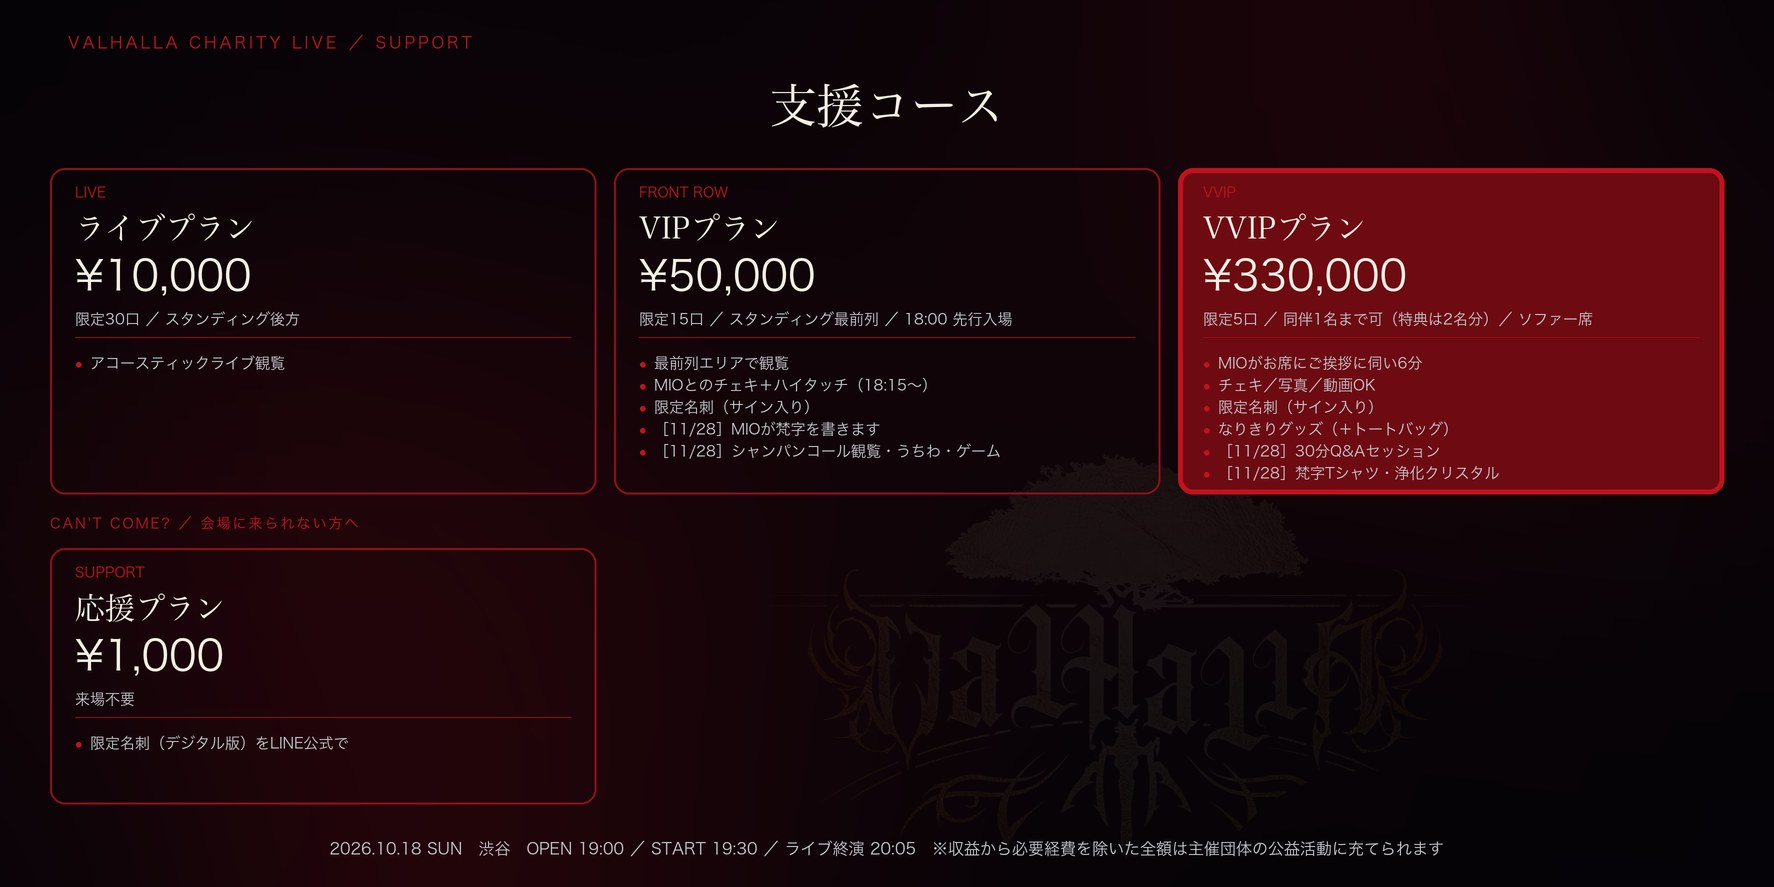
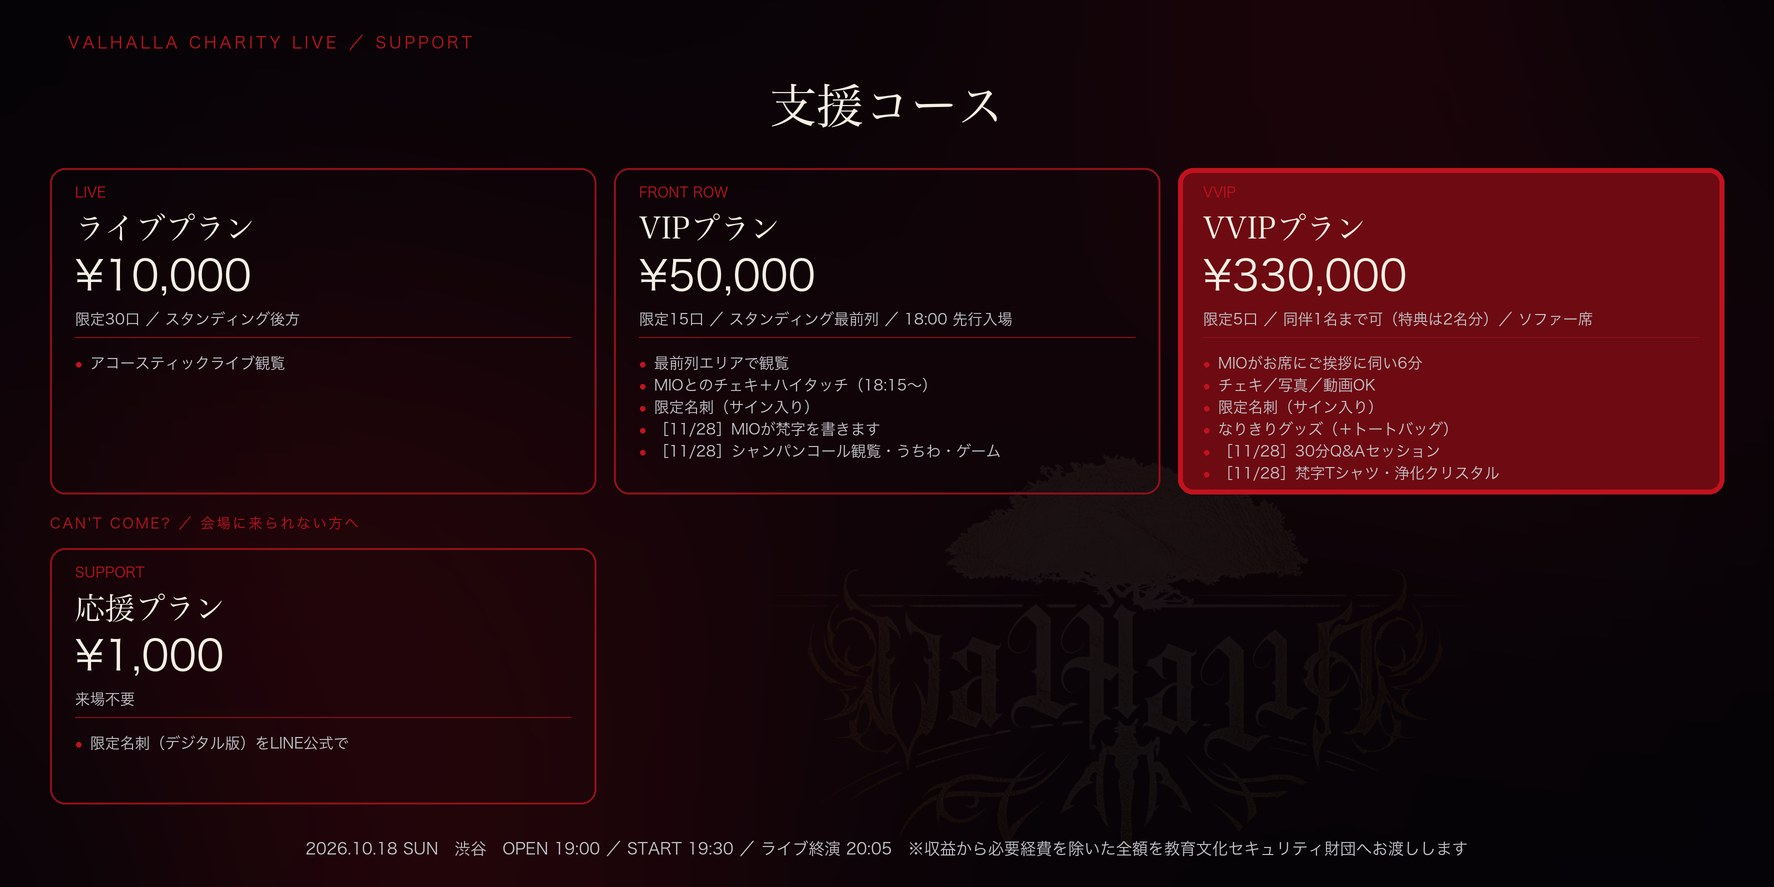
charity: put Yggdrasill on the poster and the foundation on the receiving end
The page said the foundation both ran the event and kept the money, which
left the charity with nowhere to go. Make Yggdrasill the organiser that
receives the support, settles costs against it, and hands the remainder to
the foundation — and bring back the three words that keep the direction of
the money readable (支援金 in, お渡しします across, 充てられます spent).

The daytime event's organiser was asserted from memory and was wrong twice
over. Its own page names the foundation as 主催 and 株式会社クロノス財団 only
as production and crowdfunding support, so say that instead of guessing.

Two builders still carried the old sentence hard-coded, which is how a fixed
body text can still print a stale claim; the flyer credit line was measured
against the page rather than trusted, because the last one silently fell off
the bottom of the A4.

社学園 replaces the kana spelling everywhere it appeared.

Changed region(s): [[0.186, 0.9436, 0.8371, 0.9741]]

diff --git a/charity.html b/charity.html
@@ -427,7 +427,7 @@
   <div class="sub-h">Our Story</div>
   <p class="lead-strong">支えてくれた人たちへ、恩返しがしたい。</p>
   <p class="body muted">華やかなステージの裏側で、僕たちはたくさんのお客様やスタッフに支えられてきました。今度はその恩を社会に還していきたくて、このアフターパーティーを企画しました。</p>
-  <p class="body muted">同じ日の昼、文化継承をテーマにしたチャリティーイベント「WRAPPING THE EARTH TOKYO 2026」が開かれます。その一日の夜を、VALHALLA が受け継ぎます。<b style="color:var(--ink)">本イベントの収益から必要経費を差し引いた全額を、公益財団法人 教育文化セキュリティ財団へお渡しします。</b></p>
+  <p class="body muted">同じ日の昼、公益財団法人 教育文化セキュリティ財団が主催する、文化継承をテーマにしたチャリティーイベント「WRAPPING THE EARTH TOKYO 2026」が開かれます。その一日の夜を、VALHALLA が受け継ぎます。<b style="color:var(--ink)">本イベントの収益から必要経費を差し引いた全額を、公益財団法人 教育文化セキュリティ財団へお渡しします。</b></p>
 </section>
 
 <!-- ===== ② POINTS ===== -->
@@ -534,7 +534,7 @@
     <div>
       <div class="dtag">＋ 昼の本編（同日開催）</div>
       <div class="dttl">WRAPPING THE EARTH TOKYO 2026</div>
-      <p>昼は文化継承をテーマにしたチャリティーイベント本編。その夜を、このアフターパーティーが受け継ぎます。</p>
+      <p>昼は公益財団法人 教育文化セキュリティ財団が主催する、文化継承をテーマにしたチャリティーイベント本編。その夜を、このアフターパーティーが受け継ぎます。</p>
     </div>
   </div>
 </section>
@@ -651,7 +651,7 @@
 </section>
 
 <div class="foot">
-  <div class="legal">【特定商取引法に基づく表記（公開前に必ず記載）】 主催者名／所在地／連絡先／販売価格／支払時期・方法／キャンセル規定／お渡し先・お渡しする割合 等。</div>
+  <div class="legal"><b>主催・運営：Group Yggdrasill（グループユグドラシル）</b>　／　企画・出演：VALHALLA（MIO / RAY / KØU）　／　お渡し先：公益財団法人 教育文化セキュリティ財団<br>【特定商取引法に基づく表記（公開前に必ず記載）】 主催者名／所在地／連絡先／販売価格／支払時期・方法／キャンセル規定／お渡し先・お渡しする割合 等。</div>
   <div class="credits">
     画像クレジット：安田講堂 © Kakidai (CC BY-SA 4.0) — via Wikimedia Commons.<br>
     会場写真：主催者撮影。

diff --git a/assets/charity/create_flyer_wide.py b/assets/charity/create_flyer_wide.py
@@ -572,7 +572,7 @@ def add_band(base: Image.Image) -> None:
     d.text((x, band + 90), place_t, font=place_f, fill=CREAM + (255,))
 
     # ③ 支援の一行。ここだけ和文で、静かに置く
-    note = "収益から必要経費を差し引いた全額は、教育文化セキュリティ財団の公益活動に充てられます"
+    note = "収益から必要経費を差し引いた全額を、教育文化セキュリティ財団へお渡しします"
     nf = face(MINCHO, 27)
     d.text(((W - d.textlength(note, font=nf)) / 2, band + 178), note, font=nf,
            fill=(236, 214, 214, 235))
@@ -637,3 +637,13 @@ if __name__ == "__main__":
         main(with_names=False)
     else:
         main(with_names="--no-names" not in sys.argv)
+
+# 作ったら、その場で本文へ流し込む。分けると古い絵が残る。
+if __name__ == "__main__" and "--3x2" not in sys.argv and "--no-names" in sys.argv:
+    _SRC = Path(__file__).resolve().parent / "flyer_wide_noname.jpg"
+    _BODY = Path.home() / "Desktop" / "VALHALLA_本文にはめる画像" / "IMAGE-01.jpg"
+    if _BODY.parent.is_dir() and _SRC.exists():
+        from PIL import Image as _I
+        _I.open(_SRC).convert("RGB").resize((1500, 844), _I.Resampling.LANCZOS).save(
+            _BODY, "JPEG", quality=90, optimize=True, progressive=True)
+        print(f"→ {_BODY.name} へ流し込み")

diff --git a/tools/build-flyer.py b/tools/build-flyer.py
@@ -61,10 +61,10 @@ DRAW = [
     (CENTER, 76.2, "全額を教育文化セキュリティ財団の公益活動に充てます", 11.05, WHITE, 0.05),
     (CENTER, 58.2, "※必要経費には、会場費・機材費・決済手数料が含まれます（出演料は無償）。",
      6.6, NOTE, 0.0),
-    (CENTER, 47.0, "充てた金額は開催後にご報告します。", 6.6, NOTE, 0.0),
+    (CENTER, 47.0, "お渡しした金額は開催後にご報告します。", 6.6, NOTE, 0.0),
 ]
-FOOTER = ("主催：VALHALLA ／ 同じ日の昼に開かれる「WRAPPING THE EARTH TOKYO 2026」"
-          "主催：公益財団法人 教育文化セキュリティ財団。お申し込みは CAMPFIRE にて。"
+FOOTER = ("主催・運営：Group Yggdrasill ／ 企画・出演：VALHALLA ／ お渡し先：公益財団法人 教育文化セキュリティ財団。"
+          "同じ日の昼に開かれる「WRAPPING THE EARTH TOKYO 2026」は同財団の主催です。お申し込みは CAMPFIRE にて。"
           "特定商取引法に基づく表記は特設ページに掲載します。")
 FOOTER_X, FOOTER_Y, FOOTER_SIZE, FOOTER_MAX = 39.7, 11.7, 5.38, 515.0
 

diff --git a/tools/build-page-preview.py b/tools/build-page-preview.py
@@ -140,7 +140,7 @@ def build() -> None:
            f'<main>\n'
            f'<p class="lead">文化 × エンタメ × AI。2026年10月18日（日）渋谷で '
            f'VALHALLA CHARITY LIVE を開催します。出演は MIO / RAY / KØU。'
-           f'来場は限定50口。収益から必要経費を差し引いた全額は、主催である公益財団法人 教育文化セキュリティ財団の公益活動に充てられます。</p>\n'
+           f'来場は限定50口。主催・運営は Group Yggdrasill。収益から必要経費を差し引いた全額を、公益財団法人 教育文化セキュリティ財団へお渡しします。</p>\n'
            + "\n".join(body) + "\n</main>\n")
     OUT.parent.mkdir(parents=True, exist_ok=True)
     OUT.write_text(doc, encoding="utf-8")

diff --git a/assets/charity/create_returns_banner.py b/assets/charity/create_returns_banner.py
@@ -254,7 +254,7 @@ def add_footer(base: Image.Image) -> None:
     d = ImageDraw.Draw(base)
     text = (
         "2026.10.18 SUN　渋谷　OPEN 19:00 ／ START 19:30 ／ "
-        "ライブ終演 20:05　※収益から必要経費を除いた全額は主催団体の公益活動に充てられます"
+        "ライブ終演 20:05　※収益から必要経費を除いた全額を教育文化セキュリティ財団へお渡しします"
     )
     footer_font = face(SANS, 16)
     if d.textlength(text, font=footer_font) > (W - 100) * SCALE:

diff --git a/docs/campfire-project-body.md b/docs/campfire-project-body.md
@@ -1,5 +1,10 @@
 # CAMPFIRE プロジェクトページ 本文原稿【夜の部・VALHALLA CHARITY LIVE】
 
+> ⚠ **この文書は古い。** いま掲載する内容の正は `docs/campfire-live-page.txt`。
+> 2026-09-20 に主催の構造が変わった（主催・運営＝Group Yggdrasill ／ お渡し先＝公益財団法人 教育文化セキュリティ財団）。
+> 本文中のリターン・金額・席名もこの文書は更新されていない。参照しないこと。
+
+
 最終更新: 2026-09-07
 対象: VALHALLA CHARITY LIVE（2026年10月18日 夜・渋谷）
 一次情報: **公式フライヤー `assets/charity/flyer_fusion_fixed.pdf`（差し替え済みのこれが正）** ／ 昼の部プロジェクト `camp-fire.jp/projects/965944`
@@ -24,8 +29,8 @@
 - **日時**：2026.10.18 SUN ／ **OPEN 19:00 ／ START 19:30**（受付締切 19:25）
 - **会場**：**東京・渋谷**（会場の詳細は追ってお知らせします）※会場名は伏せる（→ §6.5）
 - **出演**：**MIO ／ RAY ／ KØU** ※**この並び順が公式**
-- **主催**：**VALHALLA**
-- **昼の本編**：「**WRAPPING THE EARTH TOKYO 2026**」／主催：**公益財団法人クロノス保全財団**
+- **主催**：**Group Yggdrasill（グループユグドラシル）**
+- **昼の本編**：「**WRAPPING THE EARTH TOKYO 2026**」／主催：**公益財団法人 教育文化セキュリティ財団**（企画・制作協力・CF運営：株式会社クロノス財団）
 - **寄付**：「収益から必要経費を差し引いた全額を然るべき団体へ寄付します」
   ／「※必要経費には、会場費・出演料・機材費・決済手数料が含まれます。」
   ／「寄付先の団体名、寄付金額は開催後にご報告します。」
@@ -420,9 +425,10 @@ AI が何でも答えてくれる時代に、
 - **会場**：渋谷〔会場名は後日発表します〕
 - **出演**：VALHALLA（MIO / RAY / KØU）
 - **内容**：アコースティックライブ ＆ スペシャルタイム
-- **主催**：VALHALLA
+- **主催・運営**：Group Yggdrasill（グループユグドラシル）
+- **企画・出演**：VALHALLA（MIO / RAY / KØU）
 - **クラウドファンディング**：CAMPFIRE
-- **寄付先**：然るべき団体〔団体名は開催後に本ページで報告します〕
+- **お渡し先**：公益財団法人 教育文化セキュリティ財団
 
 【画像】`assets/charity/16x9/venue_banner.jpg`（会場は近日公開予定）
 
@@ -639,7 +645,7 @@ VALHALLA　MIO / RAY / KØU
 
 **Q1. 昼の「WRAPPING THE EARTH TOKYO 2026」とはどう違いますか？**
 
-A. 同じ2026年10月18日に開催される別のイベントです。昼は文化継承をテーマにしたチャリティーイベント、夜は渋谷で開催する VALHALLA CHARITY LIVE（主催：VALHALLA）です。ご支援はそれぞれ別のプロジェクトから承っています。〔※通し券の有無を確定〕
+A. 同じ2026年10月18日に開催される、主催者の異なる別のイベントです。昼は公益財団法人 教育文化セキュリティ財団が主催する、文化継承をテーマにしたチャリティーイベント。夜は Group Yggdrasill が主催し、渋谷で開催する VALHALLA CHARITY LIVE（企画・出演：VALHALLA）です。ご支援はそれぞれ別のプロジェクトから承っています。〔※通し券の有無を確定〕
 
 **Q2. 当日会場へ行けなくても応援できますか？**
 

diff --git a/docs/returns-v3.md b/docs/returns-v3.md
@@ -65,7 +65,7 @@
 - ゲーム参加（賞品＝社美緒の私物）
 
 **＜継続＞**
-- **やしろ学園への優待**
+- **社学園への優待**
 
 ---
 
@@ -78,7 +78,7 @@
 | ライブ | 60口 → **30名** |
 | 動員 | 100口／110名 → **50口／55名**（達成後に追加） |
 | VVIP席 | 「金色の4区画」→ **ソファー席・先着順** |
-| 追加 | **やしろ学園への優待** |
+| 追加 | **社学園への優待** |
 | 追加 | **梵字オリジナルTシャツ**（＝前回の「梵字Tシャツ」を正式名に） |
 | ファンミ会場 | ユグドラシル本店 → **都内**（場所をぼかす表記に） |
 
@@ -90,7 +90,7 @@
    何を渡すコースでしょうか（紹介／優待／権利？）
 2. **滝で浄化したクリスタル** は、今回のリストに入っていませんでした。
    VVIP から外しますか、残しますか
-3. **やしろ学園** の正式名称と、優待の中身
+3. **社学園** の優待の中身（表記は「社学園」で確定・2026-09-20）
    （受講料の割引？ 先行案内？ 期間は？）
 
 ## そのほか、決めると進むこと

diff --git a/docs/campfire-plan-diff.md b/docs/campfire-plan-diff.md
@@ -1,5 +1,10 @@
 # CAMPFIRE 側プランニングシートとの差分（2026-09-06）
 
+> ⚠ **この文書は古い。** いま掲載する内容の正は `docs/campfire-live-page.txt`。
+> 2026-09-20 に主催の構造が変わった（主催・運営＝Group Yggdrasill ／ お渡し先＝公益財団法人 教育文化セキュリティ財団）。
+> 本文中のリターン・金額・席名もこの文書は更新されていない。参照しないこと。
+
+
 出典：`【株式会社クロノス財団様 CÉ LA VIアフターパーティPJ】プランニングシート`
 （Google スプレッドシート・3タブ構成／CAMPFIRE 担当者作成）
 
